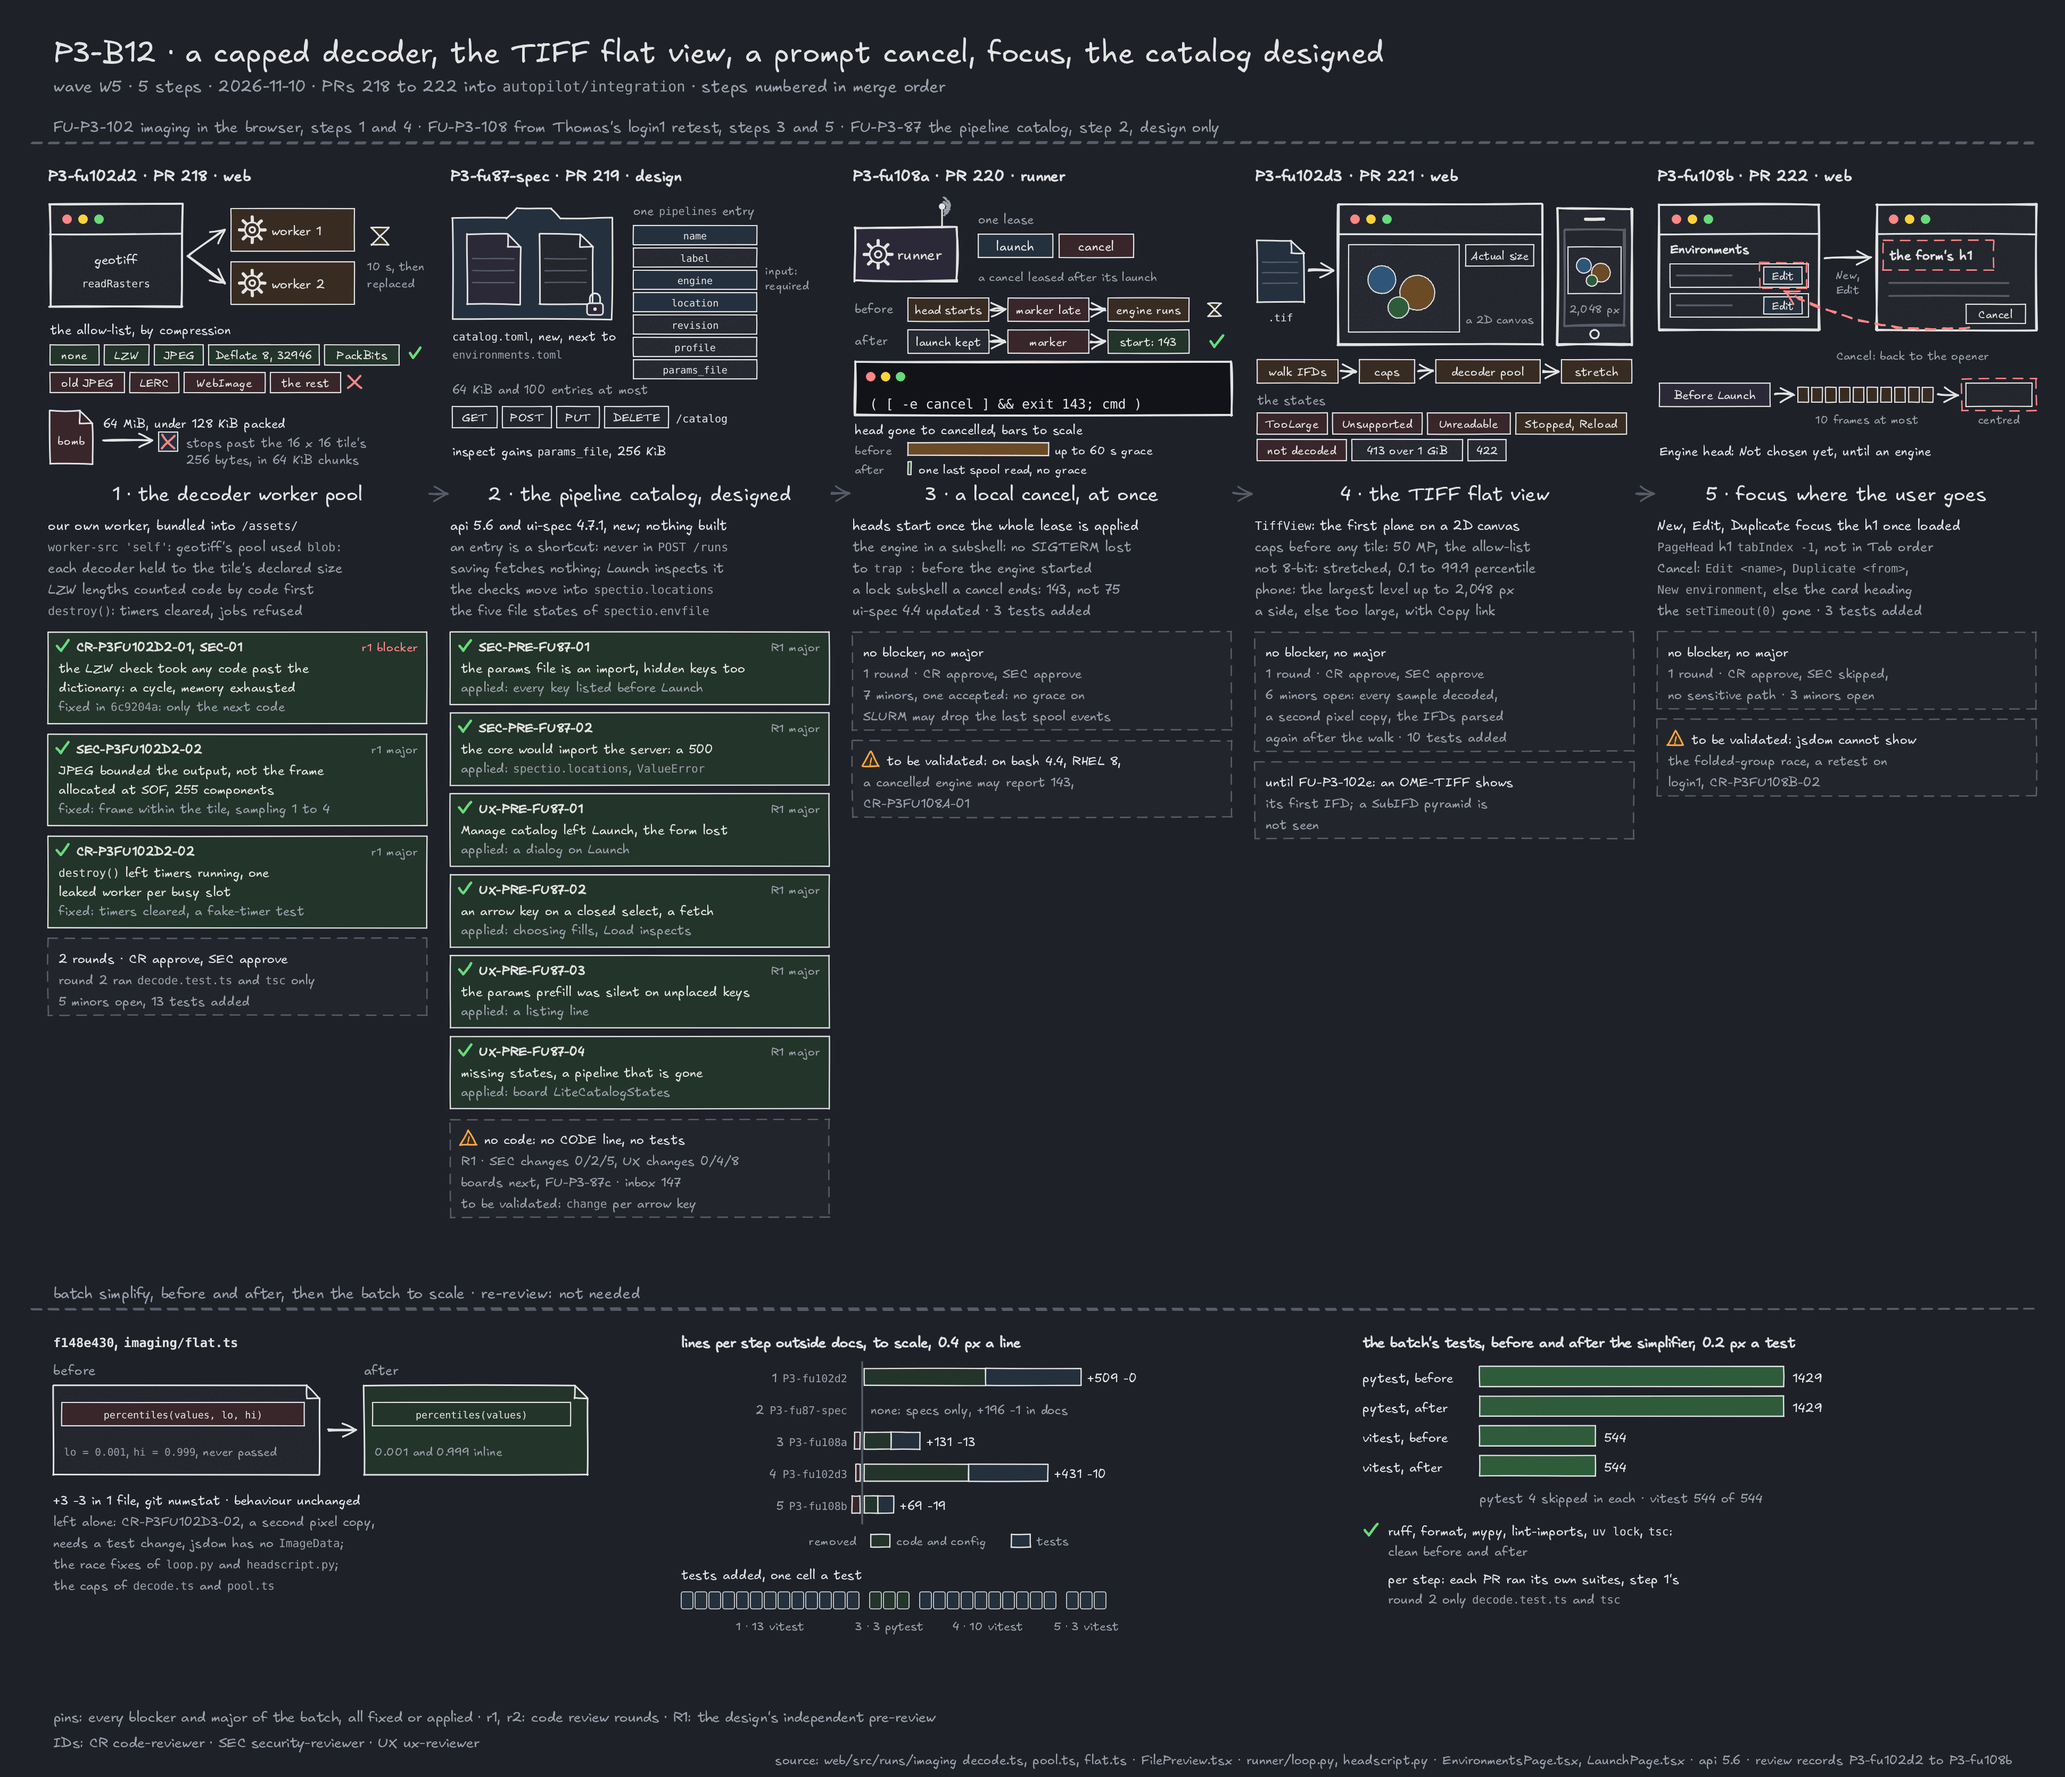
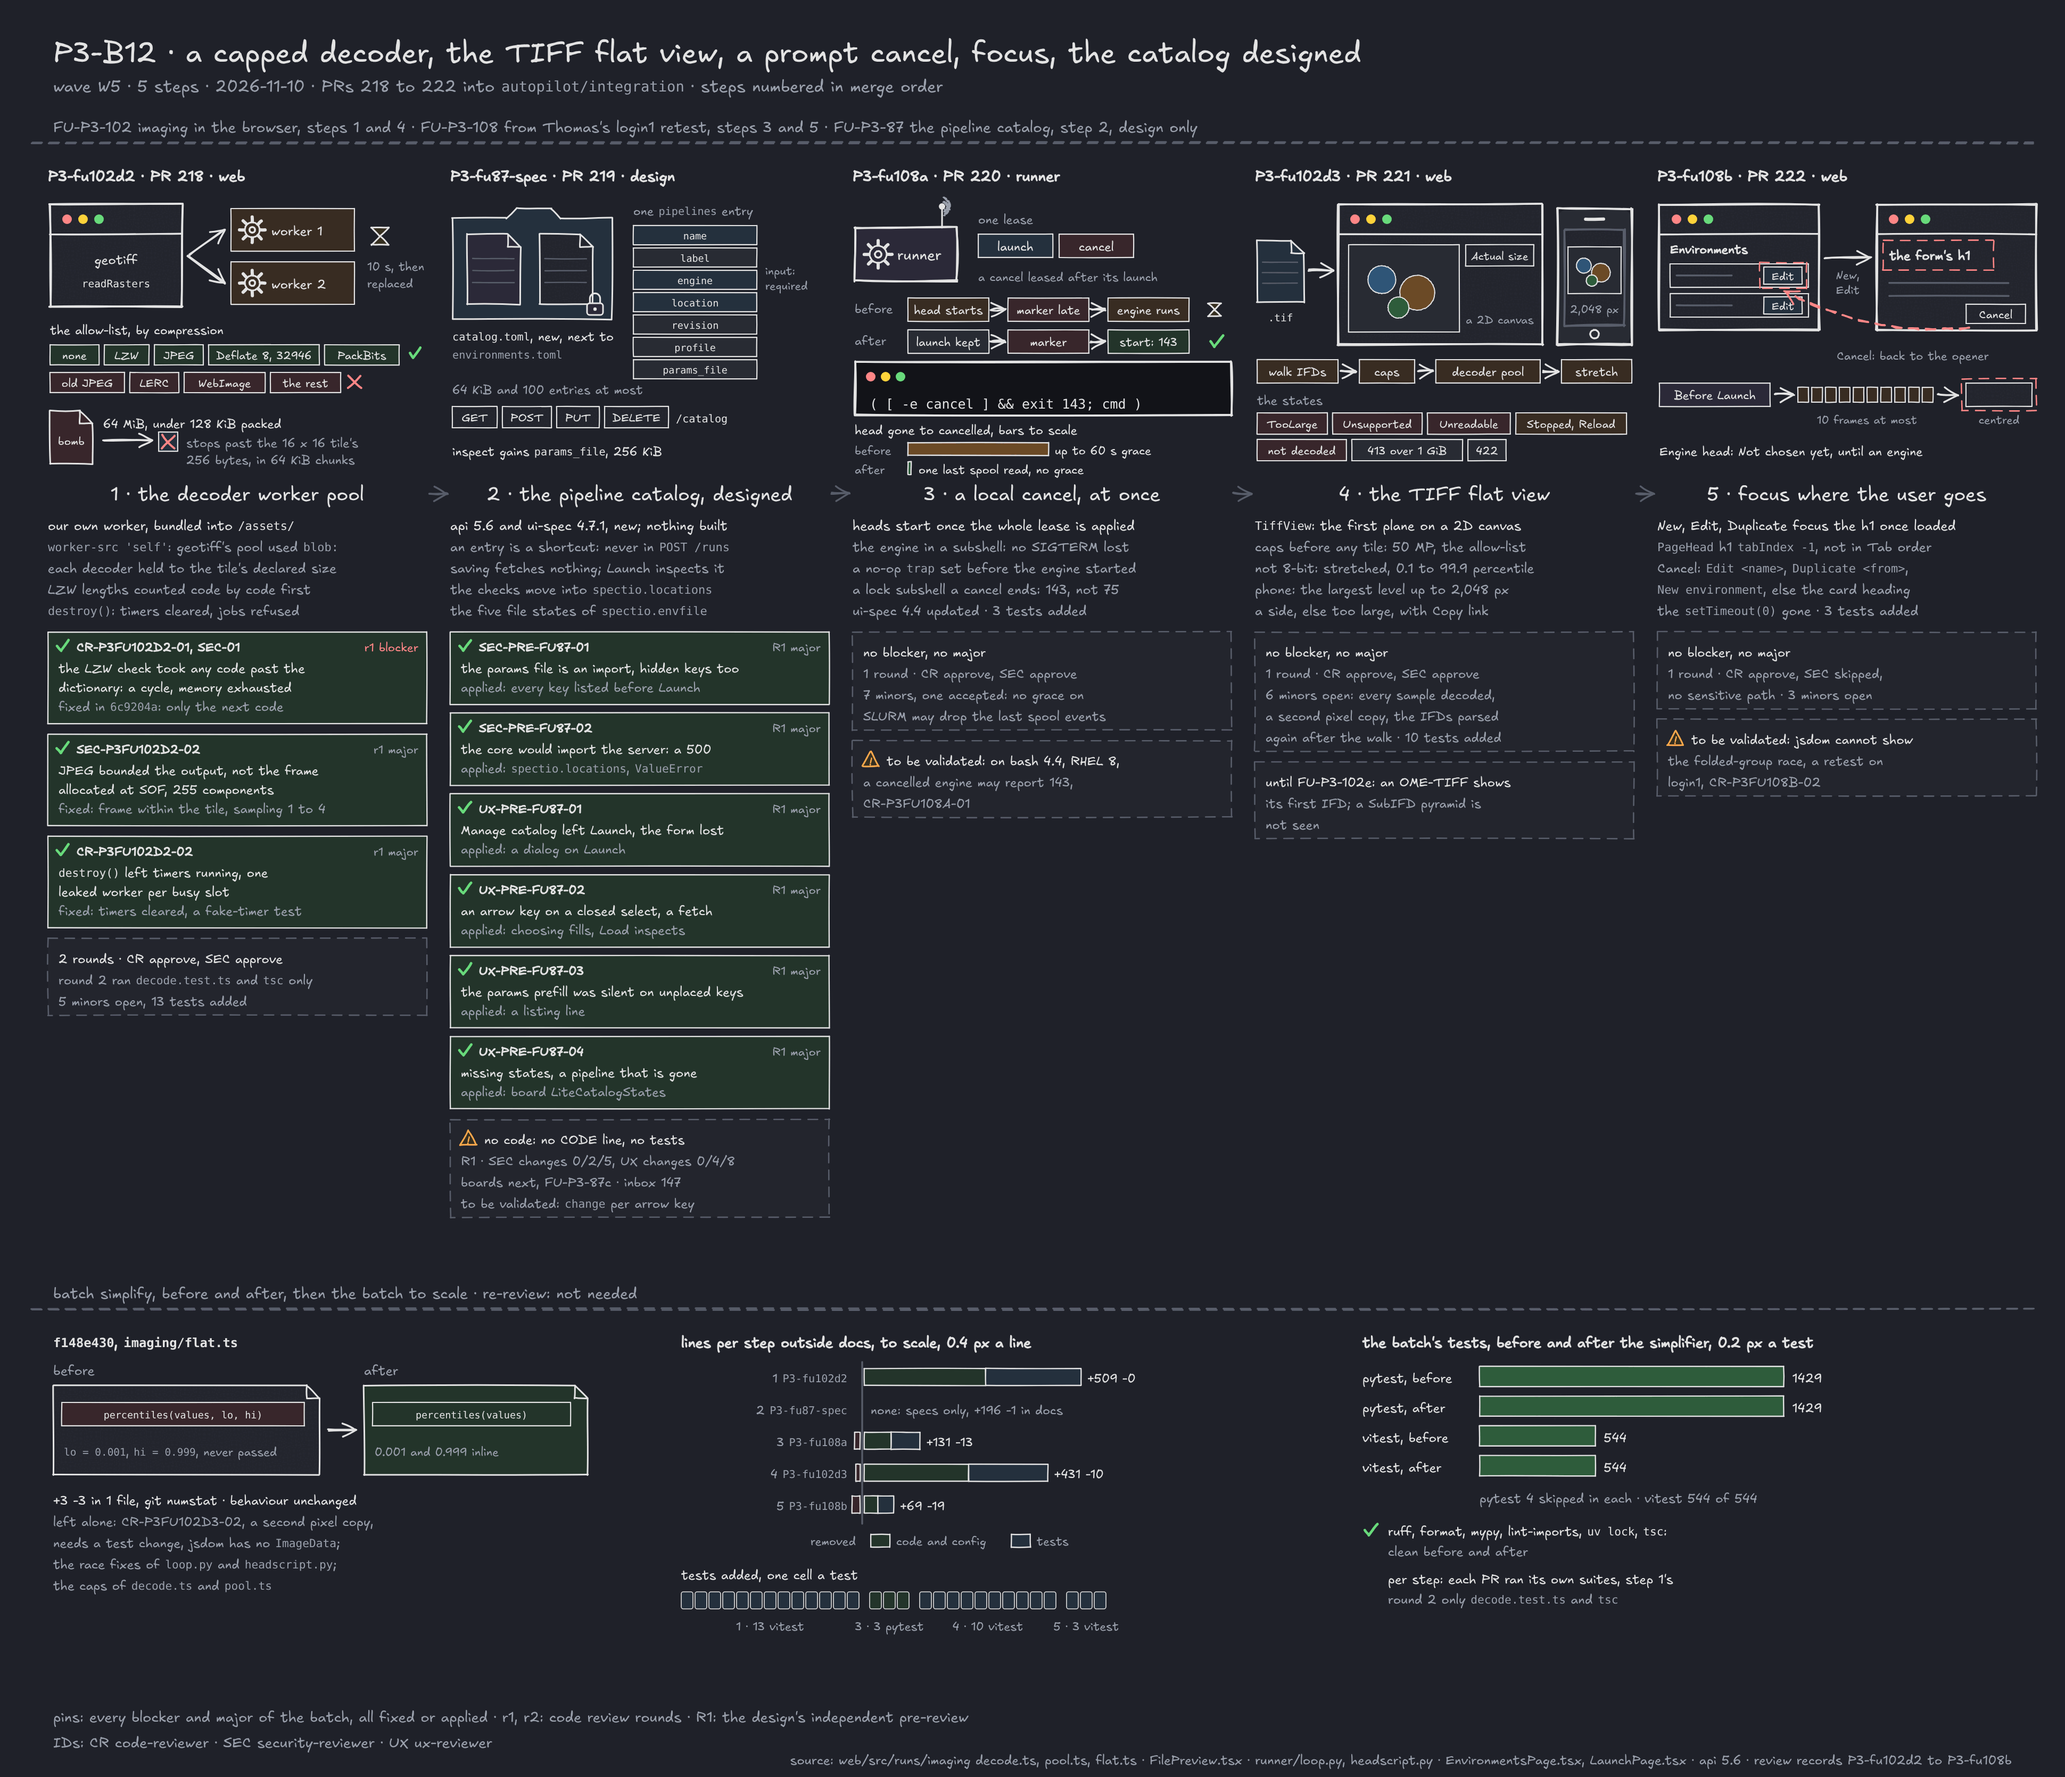
docs(P3-B12): place FU-P3-114 in the inbox, reword the figure's trap line, note the page length
Claude-Session: https://claude.ai/code/session_01MF8RxQASDmXaFjVA49aybZ

diff --git a/tools/diagrams/p3_b12_tiff_cancel_catalog.py b/tools/diagrams/p3_b12_tiff_cancel_catalog.py
@@ -287,7 +287,7 @@ def build(theme: Theme) -> Sketch:
     s.step(x + CW / 2, cap, 3, "a local cancel, at once", size=18)
     lines(s, x, cap + 28, ("heads start once the whole lease is applied",
                            "the engine in a subshell: no SIGTERM lost",
-                           "to `trap :` before the engine started",
+                           "a no-op `trap` set before the engine started",
                            "a lock subshell a cancel ends: 143, not 75",
                            "ui-spec 4.4 updated · 3 tests added"))
     y = note(s, x, pin_y, ("no blocker, no major",

diff --git a/docs/reviews/code/P3-B12.md b/docs/reviews/code/P3-B12.md
@@ -73,7 +73,7 @@ The open findings of the five steps are listed on the [Progress page](../../prog
 
 | Id | Severity | Finding | Status |
 |---|---|---|---|
-| DW-P3B12-01 | minor | **The TIFF flat view has no screenshot.** [ui-spec §4.4.1](../../specs/ui-spec.md#441-file-explorer-and-preview) now has a built screen (`TiffView`) and [documentation-system §3.1](../../specs/documentation-system.md#31-what-each-step-kind-leaves-in-the-docs) asks for a shot per new screen. The session had no Nextflow, no Snakemake and no Python Playwright, so it could not start a run to put a TIFF in its results, and a shot from a mocked API would not be a real one. The guide said so ([Not shown](../../usage/browse-and-preview-files.md#not-shown)). Closed for one state: `tools/media/tiff_demo.py` seeds a run record and a hand-written 16-bit TIFF on a real server and `shots.py` took the desktop and phone shots, light and dark. The other states are FU-P3-114 | **closed** for one state; FU-P3-114 open |
+| DW-P3B12-01 | minor | **The TIFF flat view has no screenshot.** [ui-spec §4.4.1](../../specs/ui-spec.md#441-file-explorer-and-preview) now has a built screen (`TiffView`) and [documentation-system §3.1](../../specs/documentation-system.md#31-what-each-step-kind-leaves-in-the-docs) asks for a shot per new screen. The session had no Nextflow, no Snakemake and no Python Playwright, so it could not start a run to put a TIFF in its results, and a shot from a mocked API would not be a real one. The guide said so ([Not shown](../../usage/browse-and-preview-files.md#not-shown)). Closed for one state: `tools/media/tiff_demo.py` seeds a run record and a hand-written 16-bit TIFF on a real server and `shots.py` took the desktop and phone shots, light and dark. The other states are FU-P3-114 ([inbox #148](../inbox.md)) | **closed** for one state; FU-P3-114 open |
 | DW-P3B12-02 | minor | **The `tmux` flake of DW-P3B06-02 shows in detached full runs, as before** (above). Three tests, same file, passes alone and in the foreground | **open**, known |
 | DW-P3B12-03 | minor | **The Progress page of M9 had four of the step sections at its end, under Findings, and two stale copies of the FU-P3-86h and FU-P3-109 sections** (the per-task workflow appends to the end; the B11 docs had moved and corrected the first copies). `doc-writer` moved the four sections to What changed, in step order, and wrote the missing one for FU-P3-87, and deleted the two stale copies. The FU-P3-102c2 section, which is outside this range, moved with them | **closed** |
 | DW-P3B12-04 | minor | **The figure and the P3-fu102d3 section count the open minors of that step as 7.** The record has 6 distinct open findings: 5 by `code-reviewer` and 2 by `security-reviewer`, one of them (CR-P3FU102D3-01 and SEC-P3FU102D3-01) shared. The section is corrected; the figure (column 4 and its source) said "7 minors open" and was redrawn with 6 (the cancel bars' scale label and the alt text of the cancel were corrected in the same redraw: 2.2 px a second is a drawing scale, not a measurement) | **closed** |

diff --git a/docs/progress/W5/P3-M9.md b/docs/progress/W5/P3-M9.md
@@ -1899,6 +1899,7 @@ The batch `code-simplifier` changed one file by +3 and −3 ([record](../../revi
 | CR-P3FU108B-01 (the Engine head test asserts before the version loads), -02 (the folded-group test also passes under the old `setTimeout(0)`; retest on login1 **[to be validated]**), -03 (Cancel from a form opened by its own Duplicate button looks for a control on another page) | web | [P3-fu108b](../../reviews/code/P3-fu108b.md) |
 | **FU-P3-87a to -87e:** the catalog build, server first (the checks and the file, then the routes and inspect, then the boards, the list and form, and Launch). Answers to the 11 choices of inbox #147 change the plan | server, web, Thomas | [inbox #147](../../reviews/inbox.md#147-assumed-minimal-pipeline-catalog-in-001-fu-p3-87) |
 | **FU-P3-102e and -102g:** the OME-TIFF viewer (a SubIFD pyramid, every channel and plane) and OME-Zarr. Until then an OME-TIFF shows its first IFD and OME-Zarr shows "Image viewer: coming" | web | [ui-spec §4.4.1](../../specs/ui-spec.md#441-file-explorer-and-preview) |
-| ~~**DW-P3B12-01:** no screenshot of the TIFF flat view~~ closed for one state (a 16-bit file, desktop and phone); **FU-P3-114:** the other states on screen (too large, unsupported, not a TIFF, stopped, 8-bit, RGB, multi-page, OME-TIFF), from the same `tiff_demo.py` with more files; **DW-P3B12-05:** the phone's "Shown: 512 × 384 of 512 × 384 px" says the same size twice | media, web | [P3-B12](../../reviews/code/P3-B12.md#findings) |
+| ~~**DW-P3B12-01:** no screenshot of the TIFF flat view~~ closed for one state (a 16-bit file, desktop and phone); **FU-P3-114:** the other states on screen (too large, unsupported, not a TIFF, stopped, 8-bit, RGB, multi-page, OME-TIFF), from the same `tiff_demo.py` with more files, listed in [inbox #148](../../reviews/inbox.md); **DW-P3B12-05:** the phone's "Shown: 512 × 384 of 512 × 384 px" says the same size twice | media, web | [P3-B12](../../reviews/code/P3-B12.md#findings) |
 | **DW-P3B12-02:** the `tmux` flake in detached full runs; ~~**DW-P3B12-04:** the figure's "7 minors" for the flat view (the record has 6)~~ closed: redrawn | tests | [P3-B12](../../reviews/code/P3-B12.md#findings) |
+| **Page length (minor, not for this batch):** this page is about 1,900 lines; a later pass can move the evidence of the older batches into the batch records and leave a link and the figure here | docs | [doc-writer](../../reviews/code/P3-B12.md#findings) |
 | The open items of [Follow-ups of batch P3-B11](#follow-ups-of-batch-p3-b11) not named above, among them FU-P3-110 to -113 and the login1 item "Measured stays 0 until a reload" | all | above |

diff --git a/docs/reviews/inbox.md b/docs/reviews/inbox.md
@@ -2248,3 +2248,10 @@ From the [spikes round](spikes.md): the differences that T2, T3, T4 and T7 measu
   - **FU-P3-87e · UI, Launch.** The picker and its states, fill on choose and Load to inspect, the engine as the user's choice, the profile and params prefill with the listing of unplaced values and the `code_loading` warnings, the reset rules, Manage catalog and Save to catalog in dialogs, Try leaving out saved locations; Vitest and the Playwright launch smoke from an entry.
   - After the batch: `p3-batch` (simplify, Progress page, one figure, doc review); a section "Save a pipeline" in a usage guide.
 - **Assumed (2026-11-10, standing rule of [autopilot §10](../playbooks/autopilot.md#10-unattended-mode-thomas-2026-10-30)):** every recommendation above.
+
+### #148 · Assumed: the other TIFF states on screen (FU-P3-114)
+
+- **Covers:** [FU-P3-114](../progress/W5/P3-M9.md#follow-ups-of-batch-p3-b12), found by `doc-writer` in batch P3-B12 ([DW-P3B12-01](code/P3-B12.md#findings), closed for one state); [ui-spec §4.4.1](../specs/ui-spec.md#441-file-explorer-and-preview), [guide](../usage/browse-and-preview-files.md#not-shown).
+- **Context:** the TIFF flat view has two shots, of one 16-bit grayscale file on a seeded server (`tools/media/tiff_demo.py`). Its other states are checked by Vitest in jsdom, which draws no pixels, so they are not seen: too large, unsupported, not a TIFF, stopped, 8-bit, RGB, multi-page, OME-TIFF.
+- **Plan (minor, not blocking):** extend `tiff_demo.py` with one file per state and take the shots with `shots.py`, light and dark, desktop and phone for the "too large" case. No question for Thomas; it is listed here so a later P3 batch picks it up.
+- **Assumed (2026-11-10, standing rule of [autopilot §10](../playbooks/autopilot.md#10-unattended-mode-thomas-2026-10-30)):** the plan above.
